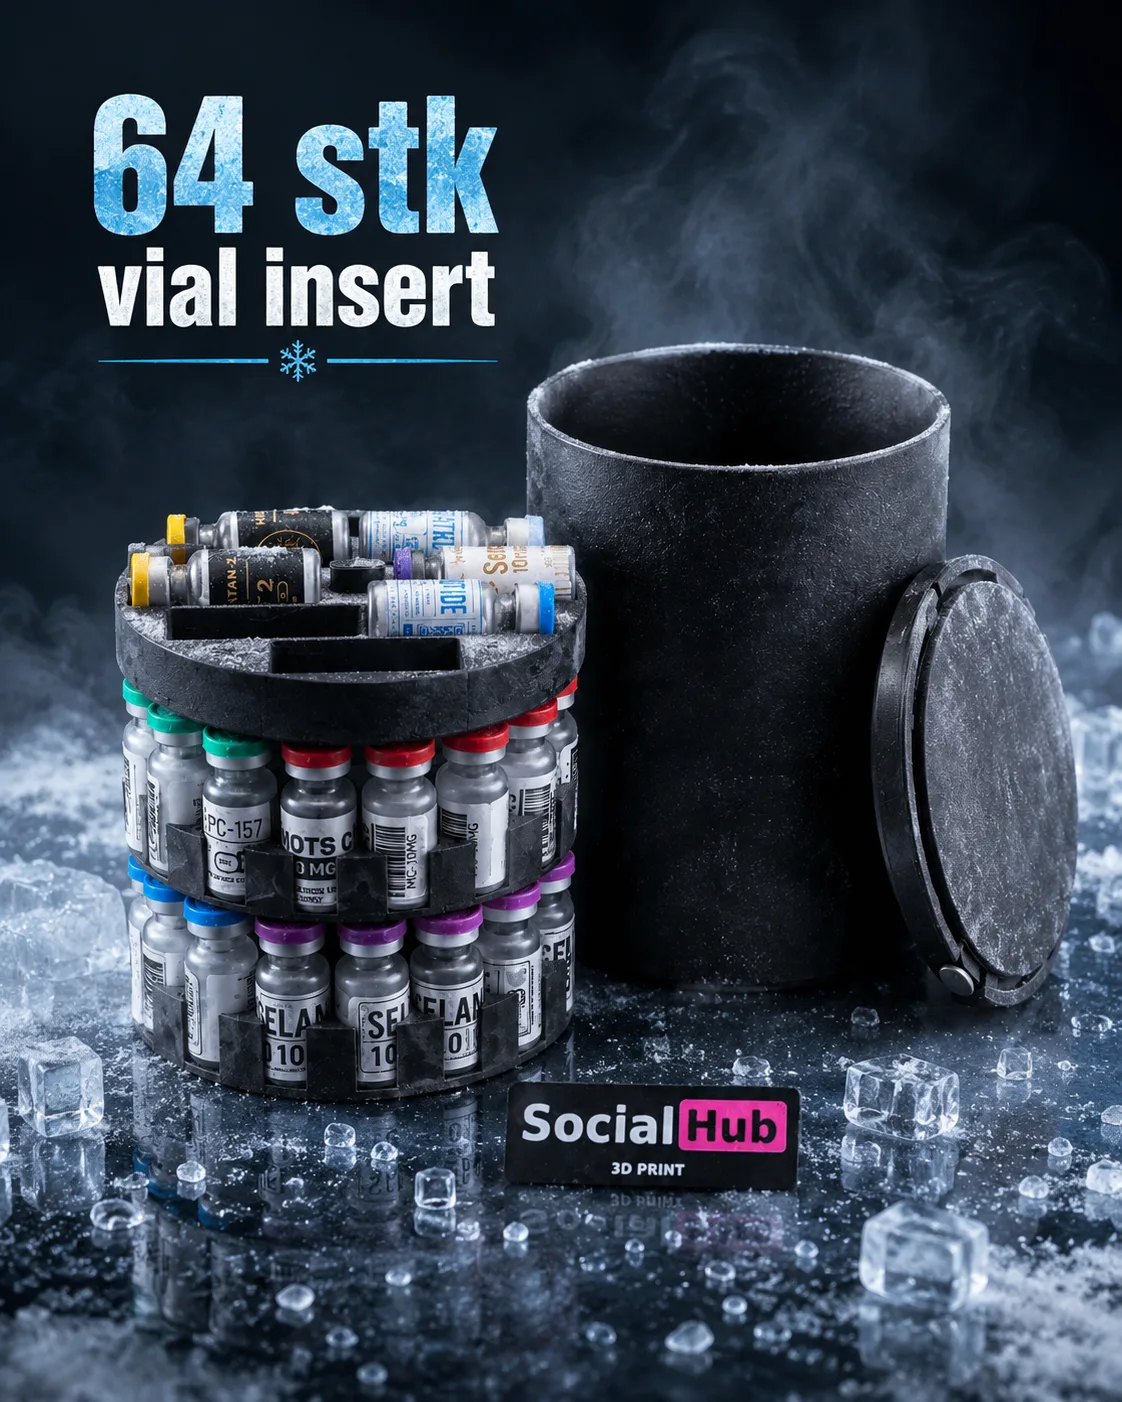
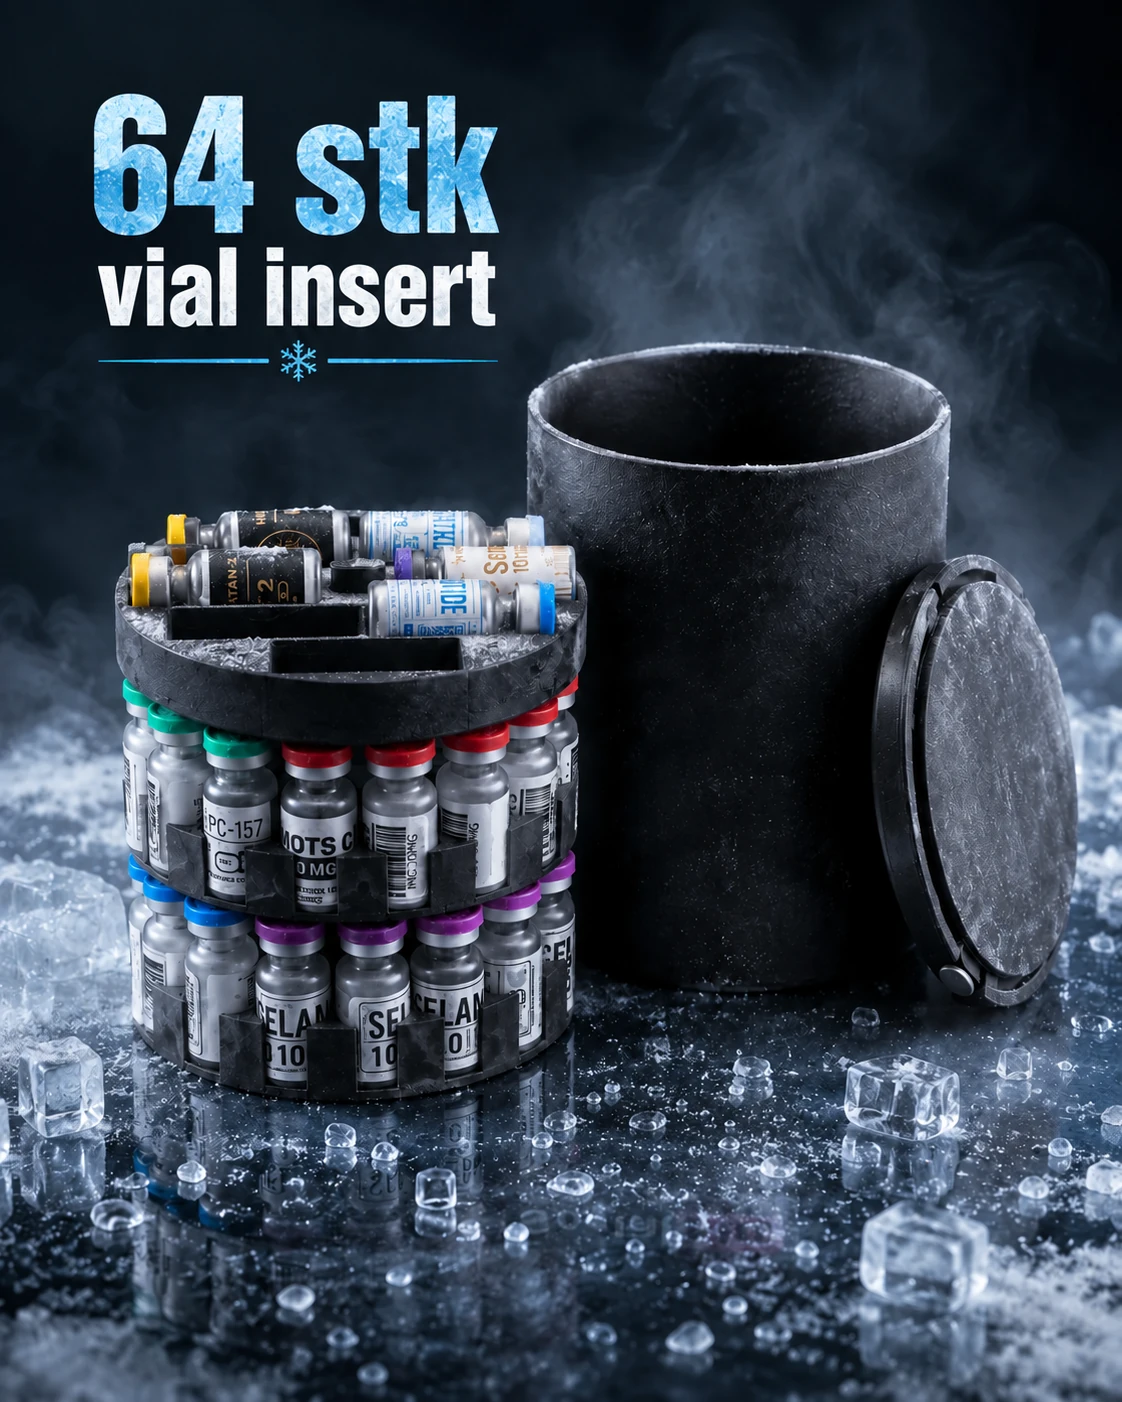
NordForm

diff --git a/shop.html b/shop.html
@@ -3,8 +3,8 @@
 <head>
 <meta charset="utf-8">
 <meta name="viewport" content="width=device-width, initial-scale=1">
-<title>Katalog · LAYERLAB</title>
-<meta name="description" content="Se LAYERLABs produktkatalog med produkter til peptides og andre formål.">
+<title>Katalog · NordForm</title>
+<meta name="description" content="Se produktkataloget fra NordForm med produkter til peptides og andre formål.">
 <meta name="theme-color" content="#07151E">
 <link rel="icon" href="assets/favicon.svg" type="image/svg+xml">
 <link rel="stylesheet" href="css/style.css">
@@ -17,7 +17,7 @@
   <div class="wrap header-bar">
     <a class="brand" href="index.html" aria-label="Til forsiden">
       <span class="brand-mark" aria-hidden="true"><i></i><i></i><i></i></span>
-      <span class="brand-name" data-shop-name>LAYERLAB</span>
+      <span class="brand-name" data-shop-name>NordForm</span>
     </a>
     <nav class="nav" aria-label="Hovedmenu">
       <a class="nav-link" href="index.html">Forside</a>
@@ -42,7 +42,7 @@
 <main id="main">
   <section class="catalog-intro">
     <div class="wrap">
-      <p class="eyebrow">LAYERLAB · Udvalget</p>
+      <p class="eyebrow">NordForm · Udvalget</p>
       <h1 class="display catalog-title">Katalog.</h1>
       <div class="catalog-intro-bottom">
         <p class="lede">Udvalgte produkter til peptides og andre formål, med fokus på kvalitet.</p>
@@ -71,7 +71,7 @@
       <div class="footer-brand-col">
         <a class="brand" href="index.html">
           <span class="brand-mark" aria-hidden="true"><i></i><i></i><i></i></span>
-          <span class="brand-name" data-shop-name>LAYERLAB</span>
+          <span class="brand-name" data-shop-name>NordForm</span>
         </a>
         <p class="footer-about">Produkter til peptides og andre formål, udvalgt med fokus på kvalitet.</p>
       </div>
@@ -91,7 +91,8 @@
       </div>
     </div>
     <div class="footer-bottom">
-      <span>© <span data-shop-year>2026</span> <span data-shop-name>LAYERLAB</span></span>
+      <span>© <span data-shop-year>2026</span> <span data-shop-name>NordForm</span></span>
+      <span>CVR: <span data-shop-cvr>41693908</span></span>
       <span>Kvalitet · Funktion · Præcision</span>
     </div>
   </div>

diff --git a/cart.html b/cart.html
@@ -3,7 +3,7 @@
 <head>
 <meta charset="utf-8">
 <meta name="viewport" content="width=device-width, initial-scale=1">
-<title>Bestilling · LAYERLAB</title>
+<title>Bestilling · NordForm</title>
 <meta name="description" content="Bestilling og spørgsmål om produkter foregår direkte via Telegram.">
 <meta name="theme-color" content="#07151E">
 <link rel="icon" href="assets/favicon.svg" type="image/svg+xml">
@@ -17,7 +17,7 @@
   <div class="wrap header-bar">
     <a class="brand" href="index.html" aria-label="Til forsiden">
       <span class="brand-mark" aria-hidden="true"><i></i><i></i><i></i></span>
-      <span class="brand-name" data-shop-name>LAYERLAB</span>
+      <span class="brand-name" data-shop-name>NordForm</span>
     </a>
     <nav class="nav" aria-label="Hovedmenu">
       <a class="nav-link" href="index.html">Forside</a>
@@ -42,7 +42,7 @@
 <main id="main">
   <section class="catalog-intro">
     <div class="wrap">
-      <p class="eyebrow">LAYERLAB · Bestilling</p>
+      <p class="eyebrow">NordForm · Bestilling</p>
       <h1 class="display catalog-title">Bestil via Telegram.</h1>
       <div class="catalog-intro-bottom">
         <p class="lede">Vi tager imod spørgsmål og bestillinger direkte på Telegram. Skriv produktnavn og ønsket antal, så aftaler vi resten.</p>
@@ -61,7 +61,7 @@
       <div class="footer-brand-col">
         <a class="brand" href="index.html">
           <span class="brand-mark" aria-hidden="true"><i></i><i></i><i></i></span>
-          <span class="brand-name" data-shop-name>LAYERLAB</span>
+          <span class="brand-name" data-shop-name>NordForm</span>
         </a>
         <p class="footer-about">Produktkatalog med produkter til peptides og andre formål.</p>
       </div>
@@ -81,7 +81,8 @@
       </div>
     </div>
     <div class="footer-bottom">
-      <span>© <span data-shop-year>2026</span> <span data-shop-name>LAYERLAB</span></span>
+      <span>© <span data-shop-year>2026</span> <span data-shop-name>NordForm</span></span>
+      <span>CVR: <span data-shop-cvr>41693908</span></span>
       <span>Kvalitet · Funktion · Præcision</span>
     </div>
   </div>

diff --git a/contact.html b/contact.html
@@ -3,8 +3,8 @@
 <head>
 <meta charset="utf-8">
 <meta name="viewport" content="width=device-width, initial-scale=1">
-<title>Kontakt · LAYERLAB</title>
-<meta name="description" content="Kontakt LAYERLAB via Telegram om produkter, bestillinger og spørgsmål.">
+<title>Kontakt · NordForm</title>
+<meta name="description" content="Kontakt NordForm via Telegram om produkter, bestillinger og spørgsmål.">
 <meta name="theme-color" content="#07151E">
 <link rel="icon" href="assets/favicon.svg" type="image/svg+xml">
 <link rel="stylesheet" href="css/style.css">
@@ -17,7 +17,7 @@
   <div class="wrap header-bar">
     <a class="brand" href="index.html" aria-label="Til forsiden">
       <span class="brand-mark" aria-hidden="true"><i></i><i></i><i></i></span>
-      <span class="brand-name" data-shop-name>LAYERLAB</span>
+      <span class="brand-name" data-shop-name>NordForm</span>
     </a>
 
     <nav class="nav" aria-label="Hovedmenu">
@@ -109,7 +109,7 @@
       <div class="footer-brand-col">
         <a class="brand" href="index.html">
           <span class="brand-mark" aria-hidden="true"><i></i><i></i><i></i></span>
-          <span class="brand-name" data-shop-name>LAYERLAB</span>
+          <span class="brand-name" data-shop-name>NordForm</span>
         </a>
         <p class="footer-about">
           Produkter til peptides og andre formål, udvalgt med fokus på kvalitet.
@@ -134,7 +134,8 @@
     </div>
 
     <div class="footer-bottom">
-      <span>© <span data-shop-year>2026</span> <span data-shop-name>LAYERLAB</span></span>
+      <span>© <span data-shop-year>2026</span> <span data-shop-name>NordForm</span></span>
+      <span>CVR: <span data-shop-cvr>41693908</span></span>
       <span>Kvalitet · Funktion · Præcision</span>
     </div>
   </div>

diff --git a/product.html b/product.html
@@ -3,8 +3,8 @@
 <head>
 <meta charset="utf-8">
 <meta name="viewport" content="width=device-width, initial-scale=1">
-<title>Produkt · LAYERLAB</title>
-<meta name="description" content="Se produktdetaljer og priser, og kontakt LAYERLAB via Telegram.">
+<title>Produkt · NordForm</title>
+<meta name="description" content="Se produktdetaljer og priser, og kontakt NordForm via Telegram.">
 <meta name="theme-color" content="#07151E">
 <link rel="icon" href="assets/favicon.svg" type="image/svg+xml">
 <link rel="stylesheet" href="css/style.css">
@@ -17,7 +17,7 @@
   <div class="wrap header-bar">
     <a class="brand" href="index.html" aria-label="Til forsiden">
       <span class="brand-mark" aria-hidden="true"><i></i><i></i><i></i></span>
-      <span class="brand-name" data-shop-name>LAYERLAB</span>
+      <span class="brand-name" data-shop-name>NordForm</span>
     </a>
 
     <nav class="nav" aria-label="Hovedmenu">
@@ -138,7 +138,7 @@
       <div class="footer-brand-col">
         <a class="brand" href="index.html">
           <span class="brand-mark" aria-hidden="true"><i></i><i></i><i></i></span>
-          <span class="brand-name" data-shop-name>LAYERLAB</span>
+          <span class="brand-name" data-shop-name>NordForm</span>
         </a>
         <p class="footer-about">
           Produkter til peptides og andre formål, udvalgt med fokus på kvalitet.
@@ -163,7 +163,8 @@
     </div>
 
     <div class="footer-bottom">
-      <span>© <span data-shop-year>2026</span> <span data-shop-name>LAYERLAB</span></span>
+      <span>© <span data-shop-year>2026</span> <span data-shop-name>NordForm</span></span>
+      <span>CVR: <span data-shop-cvr>41693908</span></span>
       <span>Kvalitet · Funktion · Præcision</span>
     </div>
   </div>

diff --git a/index.html b/index.html
@@ -3,7 +3,7 @@
 <head>
 <meta charset="utf-8">
 <meta name="viewport" content="width=device-width, initial-scale=1">
-<title>LAYERLAB · Kvalitetsprodukter til peptides</title>
+<title>NordForm · Kvalitetsprodukter til peptides</title>
 <meta name="description" content="Udvalgte produkter til peptides og andre formål, med fokus på kvalitet, funktion og præcision.">
 <meta name="theme-color" content="#07151E">
 <link rel="icon" href="assets/favicon.svg" type="image/svg+xml">
@@ -17,7 +17,7 @@
   <div class="wrap header-bar">
     <a class="brand" href="index.html" aria-label="Til forsiden">
       <span class="brand-mark" aria-hidden="true"><i></i><i></i><i></i></span>
-      <span class="brand-name" data-shop-name>LAYERLAB</span>
+      <span class="brand-name" data-shop-name>NordForm</span>
     </a>
 
     <nav class="nav" aria-label="Hovedmenu">
@@ -117,7 +117,7 @@
       <div class="footer-brand-col">
         <a class="brand" href="index.html">
           <span class="brand-mark" aria-hidden="true"><i></i><i></i><i></i></span>
-          <span class="brand-name" data-shop-name>LAYERLAB</span>
+          <span class="brand-name" data-shop-name>NordForm</span>
         </a>
         <p class="footer-about">
           Produkter til peptides og andre formål, udvalgt med fokus på kvalitet.
@@ -142,7 +142,8 @@
     </div>
 
     <div class="footer-bottom">
-      <span>© <span data-shop-year>2026</span> <span data-shop-name>LAYERLAB</span></span>
+      <span>© <span data-shop-year>2026</span> <span data-shop-name>NordForm</span></span>
+      <span>CVR: <span data-shop-cvr>41693908</span></span>
       <span>Kvalitet · Funktion · Præcision</span>
     </div>
   </div>

diff --git a/faq.html b/faq.html
@@ -3,7 +3,7 @@
 <head>
 <meta charset="utf-8">
 <meta name="viewport" content="width=device-width, initial-scale=1">
-<title>FAQ · LAYERLAB</title>
+<title>FAQ · NordForm</title>
 <meta name="description" content="Svar på spørgsmål om produkterne, materialerne og hvordan du spørger eller bestiller via Telegram.">
 <meta name="theme-color" content="#07151E">
 <link rel="icon" href="assets/favicon.svg" type="image/svg+xml">
@@ -17,7 +17,7 @@
   <div class="wrap header-bar">
     <a class="brand" href="index.html" aria-label="Til forsiden">
       <span class="brand-mark" aria-hidden="true"><i></i><i></i><i></i></span>
-      <span class="brand-name" data-shop-name>LAYERLAB</span>
+      <span class="brand-name" data-shop-name>NordForm</span>
     </a>
 
     <nav class="nav" aria-label="Hovedmenu">
@@ -318,7 +318,7 @@
       <div class="footer-brand-col">
         <a class="brand" href="index.html">
           <span class="brand-mark" aria-hidden="true"><i></i><i></i><i></i></span>
-          <span class="brand-name" data-shop-name>LAYERLAB</span>
+          <span class="brand-name" data-shop-name>NordForm</span>
         </a>
         <p class="footer-about">
           Produkter til peptides og andre formål, udvalgt med fokus på kvalitet.
@@ -343,7 +343,8 @@
     </div>
 
     <div class="footer-bottom">
-      <span>© <span data-shop-year>2026</span> <span data-shop-name>LAYERLAB</span></span>
+      <span>© <span data-shop-year>2026</span> <span data-shop-name>NordForm</span></span>
+      <span>CVR: <span data-shop-cvr>41693908</span></span>
       <span>Kvalitet · Funktion · Præcision</span>
     </div>
   </div>

diff --git a/js/main.js b/js/main.js
@@ -59,6 +59,7 @@
     var cfg = window.Shop.config;
 
     document.querySelectorAll("[data-shop-name]").forEach(function (el) { el.textContent = cfg.name; });
+    document.querySelectorAll("[data-shop-cvr]").forEach(function (el) { el.textContent = cfg.cvr; });
     document.querySelectorAll("[data-shop-year]").forEach(function (el) { el.textContent = String(new Date().getFullYear()); });
 
     document.querySelectorAll("[data-shop-telegram]").forEach(function (el) {

diff --git a/css/style.css b/css/style.css
@@ -1,5 +1,5 @@
 /* ==========================================================================
-   LAYERLAB — fælles stylesheet
+   NordForm — fælles stylesheet
    Statisk site, ingen frameworks. Tokens først, derefter komponenter.
    ========================================================================== */
 

diff --git a/js/products.js b/js/products.js
@@ -21,7 +21,8 @@ window.Shop = (function () {
   /* --- Butiksidentitet ---------------------------------------------------
      Ret navn og kontaktlinks her. Bruges på alle sider. */
   var config = {
-    name: "LAYERLAB",
+    name: "NordForm",
+    cvr: "41693908",
     telegram: "@test",
     currency: "DKK"
   };

diff --git a/README.md b/README.md
@@ -1,4 +1,4 @@
-# LAYERLAB - statisk produktkatalog
+# NordForm - statisk produktkatalog
 
 Et lille, sammenhaengende website til en hobbybaseret 3D-printshop. Ren HTML, CSS og
 vanilla JavaScript. Ingen frameworks, ingen build-trin, ingen afhaengigheder.
@@ -36,8 +36,9 @@ Indholdet kommer fra `js/products.js`.
 
 ## Ret butikken til
 
-**Navn og Telegram-brugernavn** staar ét sted: `config` i `js/products.js`.
-Telegram bruges til alle produktspørgsmål og bestillinger.
+Virksomhedsnavn: **NordForm**. CVR: **41693908**. De centrale værdier og
+Telegram-brugernavn staar i `config` i `js/products.js`. Telegram bruges til alle
+produktspørgsmål og bestillinger.
 
 **Farver og typografi** styres fra `:root` i `css/style.css`.
 
